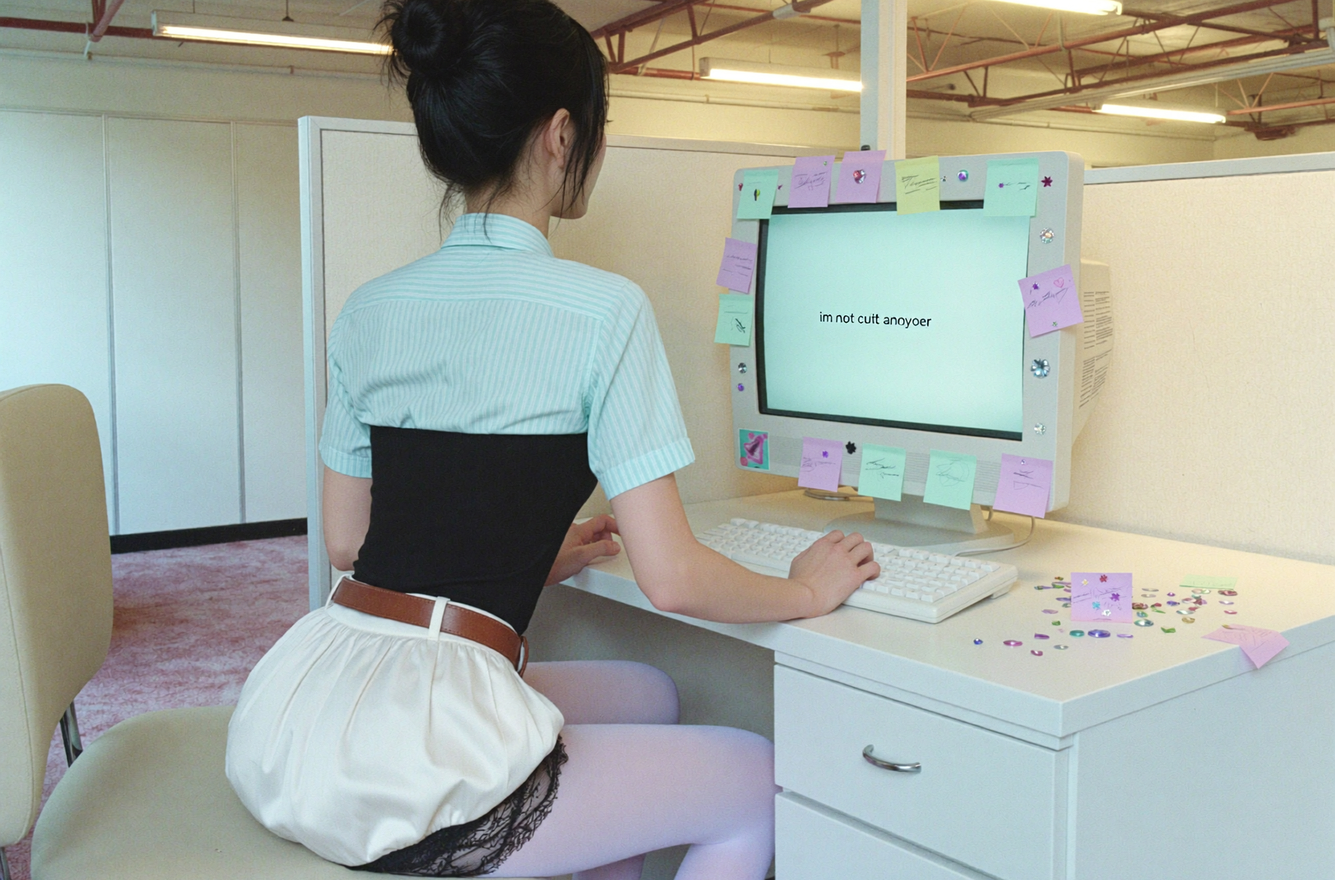
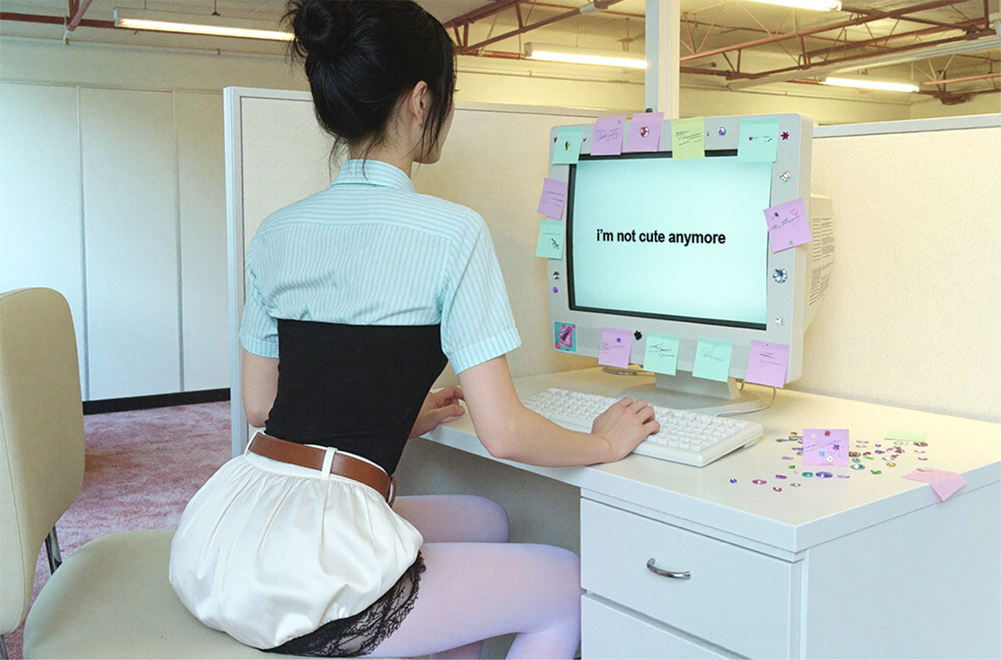
nca

diff --git a/NCA/index.html b/NCA/index.html
@@ -10,6 +10,25 @@
     <!--swiper 필수 css cdn 연결-->
     <link rel="stylesheet" href="https://cdn.jsdelivr.net/npm/swiper@11/swiper-bundle.min.css" />
     <link rel="stylesheet" href="./styles/index.css">
+    <!-- 1. Lenis 라이브러리 불러오기 -->
+    <script src="https://unpkg.com/lenis@1.1.18/dist/lenis.min.js"></script>
+
+<!-- 2. 실행 스크립트 -->
+<script>
+    const lenis = new Lenis({
+        duration: 1.3,     /* (수치가 높을수록 더욱 부드럽고 묵직함) */
+        easing: (t) => Math.min(1, 1.001 - Math.pow(2, -10 * t)),
+        smoothWheel: true,
+        wheelMultiplier: 1, /* 휠 감도 조절 */
+    });
+
+    function raf(time) {
+        lenis.raf(time);
+        requestAnimationFrame(raf);
+    }
+
+    requestAnimationFrame(raf);
+</script>
 </head>
 <body>
     <!-- Ticker Banner HTML -->
@@ -48,9 +67,9 @@
     <div class="hero_section">
         <div class="swiper hero-swiper">
             <div class="swiper-wrapper">
-                <div class="swiper-slide"><img src="./images/3.png" alt=""></div>
+                <div class="swiper-slide"><img src="./images/bnr1.jpg" alt=""></div>
                 <div class="swiper-slide"><img src="./images/5.png" alt=""></div>
-                <div class="swiper-slide"><img src="" alt=""></div>
+                <div class="swiper-slide"><img src="./images/bnr.jpg" alt=""></div>
             </div>
         </div>
         <div class="hero_fixed">
@@ -148,25 +167,37 @@
         <h2>NEW COLLECTION</h2>
         <div class="binder_wrap">
             <div class="binder_left">
-                <a href="#" class="binder_shop_btn">SHOP NOW</a>
+                <a href="#shop" class="binder_shop_btn">SHOP NOW</a>
             </div>
             <div class="binder_divider"><img src="./images/collection/divider.png" alt="divider"></div>
             <div class="binder_right">
                 <ul class="binder_products">
                     <li>
-                        <img src="#" alt="#">
-                        <span>Rosy Recess</span>
-                        <span>01</span>
+                        <div class="img_box">
+                            <img src="./images/collection/look1.png" alt="Rosy Recess">
+                        </div>
+                        <div class="info_box">
+                            <span class="title">Rosy Recess</span>
+                            <span class="num">01</span>
+                        </div>
                     </li>
                     <li>
-                        <img src="#" alt="#">
-                        <span>Grey Morning Shift</span>
-                        <span>02</span>
+                        <div class="img_box">
+                            <img src="./images/collection/look2.png" alt="Grey Morning Shift">
+                        </div>
+                        <div class="info_box">
+                            <span class="title">Grey Morning Shift</span>
+                            <span class="num">02</span>
+                        </div>
                     </li>
                     <li>
-                        <img src="#" alt="#">
-                        <span>Mint Detention</span>
-                        <span>03</span>
+                        <div class="img_box">
+                            <img src="./images/collection/look3.png" alt="Mint Detention">
+                        </div>
+                        <div class="info_box">
+                            <span class="title">Mint Detention</span>
+                            <span class="num">03</span>
+                        </div>
                     </li>
                 </ul>
             </div>

diff --git a/NCA/styles/index.css b/NCA/styles/index.css
@@ -2,6 +2,7 @@
     --nca-point:#A8D8CC;
     --nca-dark:#3C3C3C;
     --nca-grey:#7E7E7E;
+    --nca-l-grey:#f9f9f9;
     --nca-white:#fff;
     
     --nca-padding-tb:6.25rem;
@@ -132,8 +133,8 @@ header.is-scrolled .gnb li {
     position: relative;
 }
 .best-swiper .swiper-slide{
-    /* aspect-ratio:3/4; */
-    flex: 1;
+    flex-shrink: 0;
+    height: auto;
 }
 .best-swiper .swiper-slide a {
     display: flex; 
@@ -167,13 +168,14 @@ header.is-scrolled .gnb li {
 
 /* ========================== NEW COLLECTION (바인더) */
 .new_collection { 
-    padding: var(--nca-padding-tb) var(--nca-padding-lr); 
+    padding: var(--nca-padding-tb) 0 ; 
 }
+.new_collection h2 {padding-left: var(--nca-padding-lr);}
 .binder_wrap {
     display: flex;
     position: relative;
     background: #fff;
-    min-height: 500px;
+    min-height: 700px;
 }
 .binder_left {
     flex: 1;
@@ -183,14 +185,18 @@ header.is-scrolled .gnb li {
     position: relative;
     padding: 2rem;
     display: flex;
-    align-items: flex-end;
+    align-items: center;
+    justify-content: flex-end;
+    box-sizing: border-box;
 }
 .binder_shop_btn {
-    padding: 10px 24px;
-    border: 1px solid var(--nca-dark);
+    padding: 0.875rem 1.25rem;
+    /* border: 1px solid var(--nca-dark); */
     color: var(--nca-dark);
-    font-size: 0.875rem;
-    background: rgba(255, 255, 255, 0.8);
+    max-width: 8.75rem;
+    font-size: 14px; font-weight: 600;
+    background: var(--nca-point);
+    margin-right: 30px;
 }
 .binder_divider {
     position: absolute;
@@ -206,6 +212,7 @@ header.is-scrolled .gnb li {
 .binder_divider img { height: 102%; width: auto; }
 
 .binder_right {
+    position: relative;
     background-image: url(../images/collection/2.jpg);
     background-size: cover;
     background-position: left;
@@ -214,25 +221,35 @@ header.is-scrolled .gnb li {
     display: flex;
     align-items: center;
 }
-.binder_products {
-    width: 100%;
+.binder_right .binder_products {
+    position: absolute; right: 32%; top: -16%;
+    width: 204px; height: fit-content;
     display: flex;
     flex-direction: column;
-    gap: 1.5rem;
+    background: var(--nca-white);
 }
 .binder_products li {
-    display: flex;
+    display: flex; flex-flow: column;
     align-items: center;
     justify-content: space-between;
-    padding-bottom: 1rem;
-    border-bottom: 1px solid #eee;
+    width: 100%; height: 100%;
+    padding: 0.6rem;
+    gap: 0.625rem;
 }
+.binder_products li .img_box {background: var(--nca-l-grey);}
 .binder_products li img {
-    width: 60px;
-    height: 80px;
+    width: 100%;
     object-fit: cover;
 }
-.binder_products li span { font-size: 0.875rem; color: var(--nca-dark); }
+.binder_products li .info_box {
+    display: flex; width: 100%;
+    justify-content: space-between;
+    align-items: center;
+}
+.binder_products li .info_box span {
+    font-size: var(--nca-fsize-s);
+    color: var(--nca-dark);
+}
 
 /* ========================== 룩북 */
 .lookbook{

diff --git a/NCA/scripts/index.js b/NCA/scripts/index.js
@@ -1,4 +1,5 @@
 // index.js
+
 // 1. 헤더 스크롤
 const header = document.querySelector('header');
 const heroSection = document.querySelector('.hero_section');
@@ -45,7 +46,9 @@ const starBtns = document.querySelectorAll('.star-btn');
 const bestSwiper = new Swiper('.best-swiper', {
         slidesPerView: 5,
         spaceBetween: 0,
-        slidesPerGroup: 5, // 5개씩 슬라이드 이동 (총 3페이지 -> 1/3씩 이동)
+        slidesPerGroup: 5,
+        // observer: true,
+        // observerParents: true,
         scrollbar: {
             el: '.best-swiper .swiper-scrollbar',
             draggable: true,

diff --git a/NCA/styles/reset.css b/NCA/styles/reset.css
@@ -36,6 +36,19 @@ input[type=number] {
     -moz-appearance:none;
     margin:0;
 }
+/* ⭕ Lenis 권장 스타일 설정 */
+html.lenis, html.lenis body {
+    height: auto;
+}
+
+.lenis.lenis-smooth {
+    scroll-behavior: auto !important; /* CSS 스무스 스크롤 해제 */
+}
+
+/* 가로 스크롤 방지가 꼭 필요하다면 main이나 wrap 요소에 설정 */
+.wrapper {
+    overflow-hidden: hidden;
+}
 @font-face {
     font-family: 'Pretendard';
     src: url('https://cdn.jsdelivr.net/gh/projectnoonnu/pretendard@1.0/Pretendard-Thin.woff2') format('woff2');
